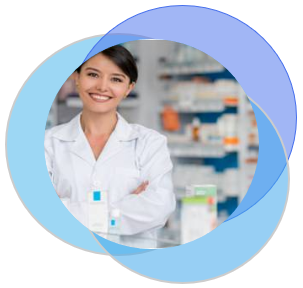
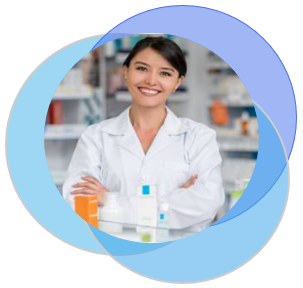
centered the woman image

diff --git a/src/components/aboutUs/Founders.js b/src/components/aboutUs/Founders.js
@@ -56,21 +56,22 @@ export default function TextMobileStepper() {
   };
 
   return (
-    <Box sx={{ maxWidth: 400, flexGrow: 1 }}>
+    <Box sx={{ flexGrow: 1 }}>
       <Paper
         square
         elevation={0}
         sx={{
           display: 'flex',
           alignItems: 'center',
-          height: 50,
+          height: "4vw",
           pl: 2,
           bgcolor: 'background.default',
+          fontSize:"1vw"
         }}
       >
-        <Typography>{steps[activeStep].label}</Typography>
+        <Typography style={{fontSize:"2vw"}}>{steps[activeStep].label}</Typography>
       </Paper>
-      <Box sx={{ height: 150, maxWidth: 400, width: '100%', p: 2  , backgroundColor:"#eeeeee"}}>
+      <Box sx={{  width: '100%', p: 2  , backgroundColor:"#eeeeee",fontSize:"2vw",height:"8vw"}}>
         {steps[activeStep].description}
       </Box>
       <MobileStepper
@@ -83,6 +84,7 @@ export default function TextMobileStepper() {
             size="small"
             onClick={handleNext}
             disabled={activeStep === maxSteps - 1}
+
           >
             Next
             {theme.direction === 'rtl' ? (

diff --git a/src/App.css b/src/App.css
@@ -747,6 +747,9 @@ body{
 
 
 @media only screen and (min-width: 1400px) {
+  .circle-h4{
+    font-size: 1.1vw;
+  } 
   .top-semicircle{
     height: 12vw;
     margin-top: -6vw;
@@ -830,6 +833,13 @@ body{
   #demo-simple-select{
     line-height:2vw !important;
     font-size: 1vw !important;
+  }
+  .css-1x1xx5k{
+    max-width: 100%;
+  }
+  .css-89caog{
+    max-width: 100%;
+    width: 100%;
   }
 }
 
